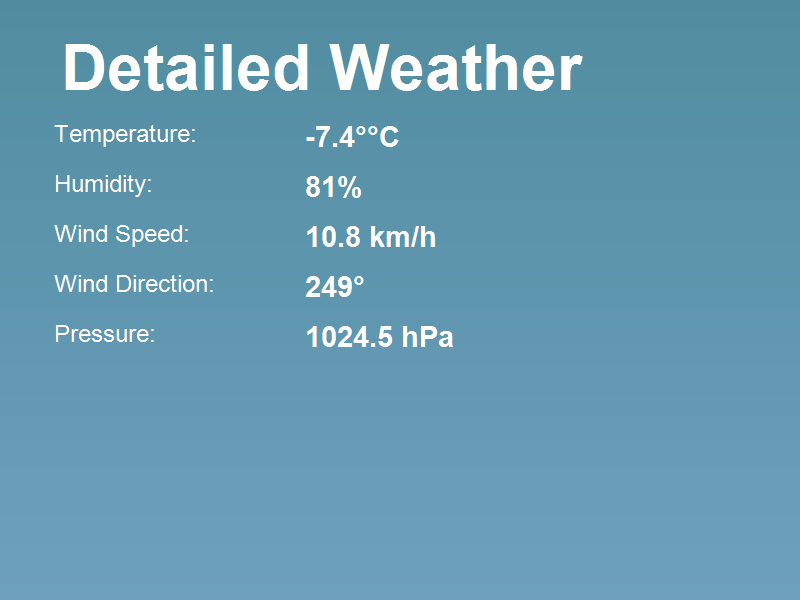
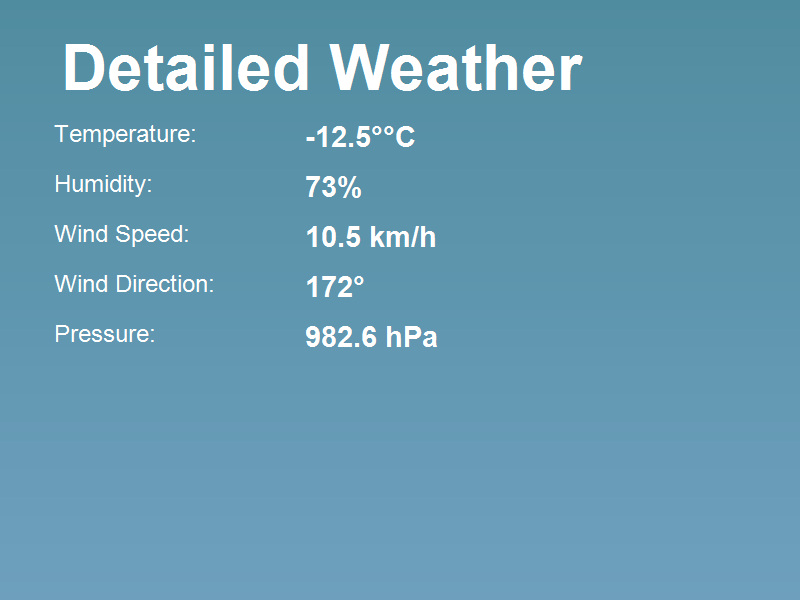
Update location for weather data query and replace current weather images

diff --git a/WeatherImageGenerator/Program.cs b/WeatherImageGenerator/Program.cs
@@ -21,7 +21,7 @@ namespace WeatherImageGenerator
                 OpenMeteoClient client = new OpenMeteoClient();
 
                 // Query weather for a city
-                string location = "Delson";
+                string location = "Amos";
                 Console.WriteLine($"Fetching weather data for {location}...");
                 
                 WeatherForecast? weatherData = await client.QueryAsync(location);
